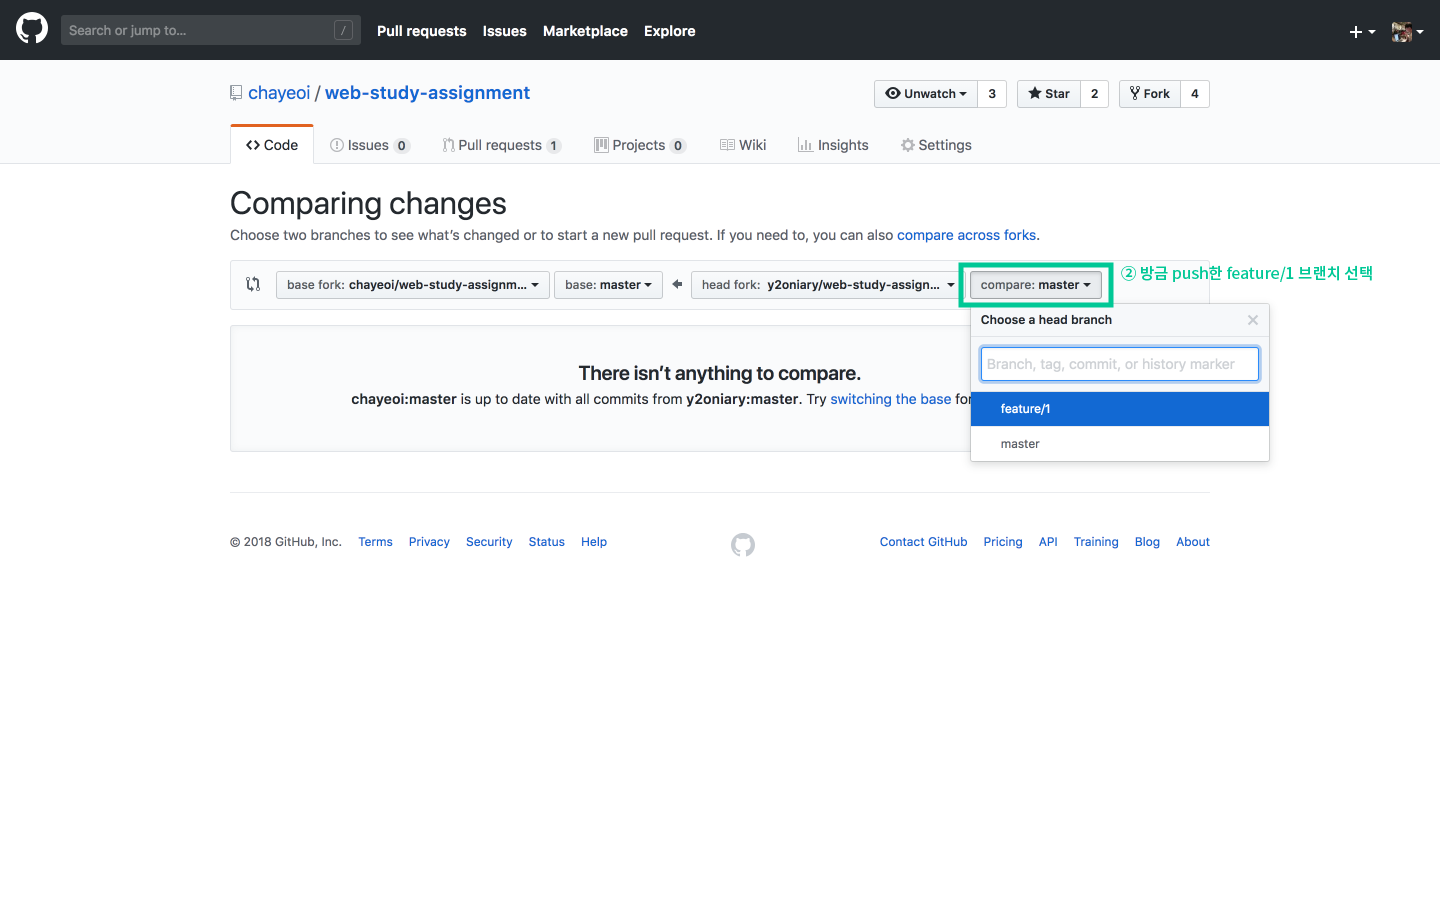
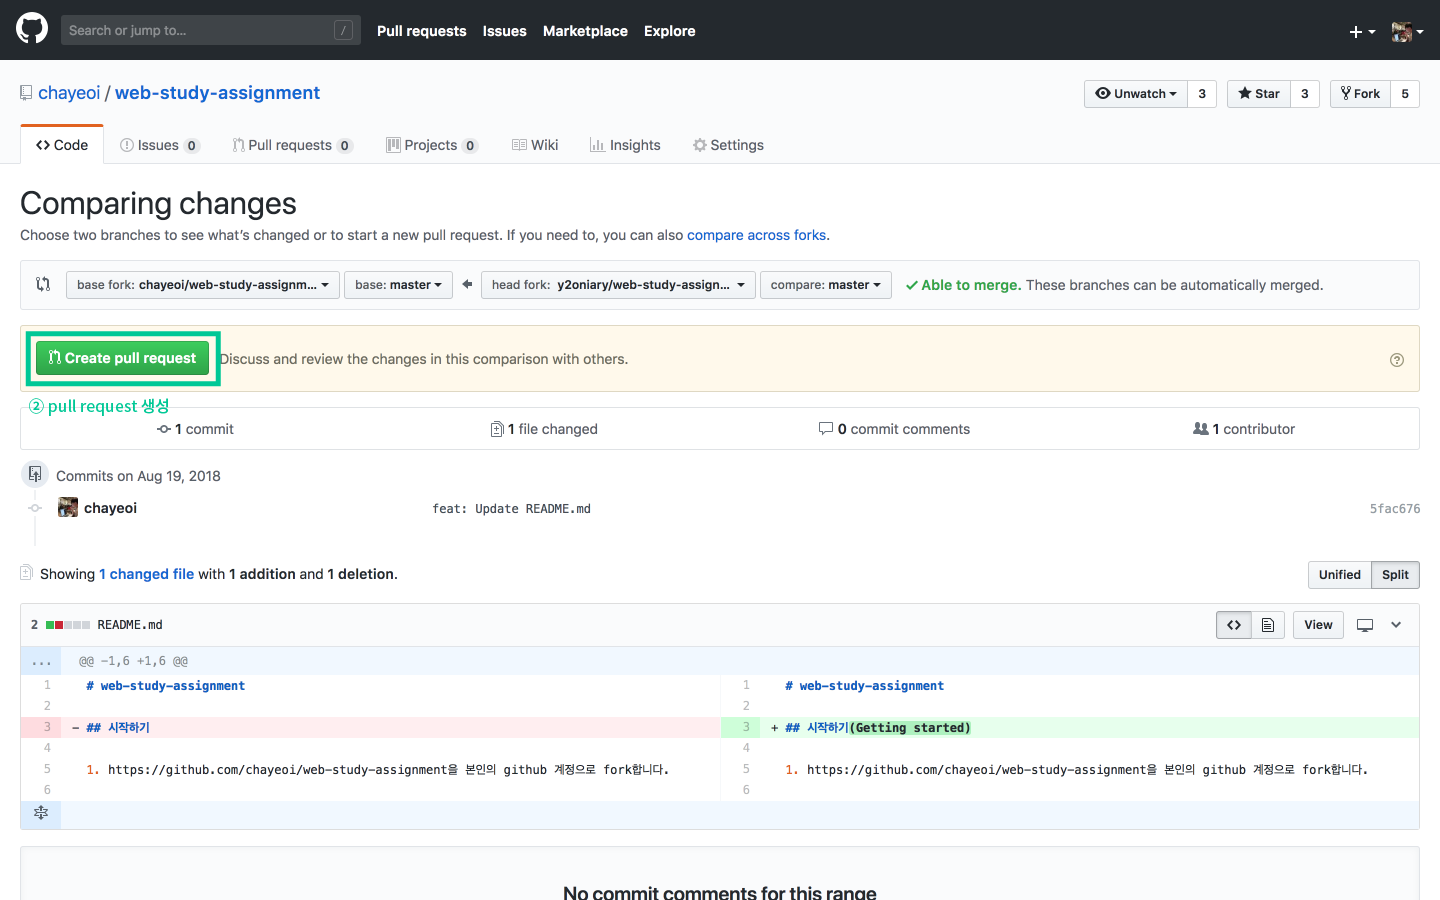
feat: Update README.md

diff --git a/README.md b/README.md
@@ -6,7 +6,7 @@
 
 ![set-assignment-1](./assets/set-assignment-1.png)
 
-2. fork한 repository의 URL을 복사합니다.(주의! 원본 repository가 아닌 방금 fork한 repository의 URL을 복사해야 합니다!)
+2. fork한 원격 repository의 URL을 복사합니다.(주의! 원본(중앙 원격) repository가 아닌 방금 fork한 원격 repository의 URL을 복사해야 합니다!)
 
 ![set-assignment-2](./assets/set-assignment-2.png)
 
@@ -25,28 +25,30 @@ cd web-study-assignment
 git remote add upstream https://github.com/chayeoi/web-study-assignment.git
 ```
 
-5. 로컬 repository 내에 자신의 영문 이름으로 폴더를 생성합니다.
-
-```bash
-mkdir [영문 이름]
-```
-
 ## 과제 제출하기
 
-1. master 브랜치로부터 새 브랜치를 생성함과 동시에 checkout합니다.
+1. 자신의 영문 이름으로 폴더를 생성합니다. 그 안에 미션 단위로 폴더를 만들어 과제를 업로드합니다. 이때 각 과제 파일명은 index.html로 만들어주세요.
 
-```bash
-git checkout -b feature/1
+```plain
+chanyeon/
+  1-2/
+    index.html
+  1-3/
+    index.html
+  1-4/
+    index.html
+  1-5/
+    index.html
+  1-6/
+    index.html
 ```
-
-2. 자신의 영문 이름으로 생성한 폴더 안에 과제를 업로드합니다.
 
 3. add, commit한 다음, fork한 repository(origin)로 push합니다.
 
 ```bash
 git add .
 git commit -m "feat: Add assignment 1-3"
-git push origin feature/1
+git push origin master
 ```
 
 4. 브라우저에서 fork한 원격 repository로 접속 후 원본 repository에 대한 pull request를 생성합니다.
@@ -56,8 +58,6 @@ git push origin feature/1
 ![submit-assignment-2](./assets/submit-assignment-2.png)
 
 ![submit-assignment-3](./assets/submit-assignment-3.png)
-
-![submit-assignment-4](./assets/submit-assignment-4.png)
 
 ## 코드 리뷰 진행 및 반영하기
 
@@ -77,3 +77,14 @@ git pull upstream master
 
 ## 벌금 현황
 
+|            | 김찬연 | 이동준 | 강주영 | 고은이 | 이윤희 | 김범준 | 이다민 |
+| ---------- | ---- | ---- | ---- | ---- | ---- | ---- | ---- |
+| 2018-08-19 |      | 2000 | 2000 |      |      | 2000 |      |
+| 2018-08-26 |      |      |      |      |      |      |      |
+|            |      |      |      |      |      |      |      |
+|            |      |      |      |      |      |      |      |
+|            |      |      |      |      |      |      |      |
+|            |      |      |      |      |      |      |      |
+|            |      |      |      |      |      |      |      |
+|            |      |      |      |      |      |      |      |
+|            |      |      |      |      |      |      |      |
